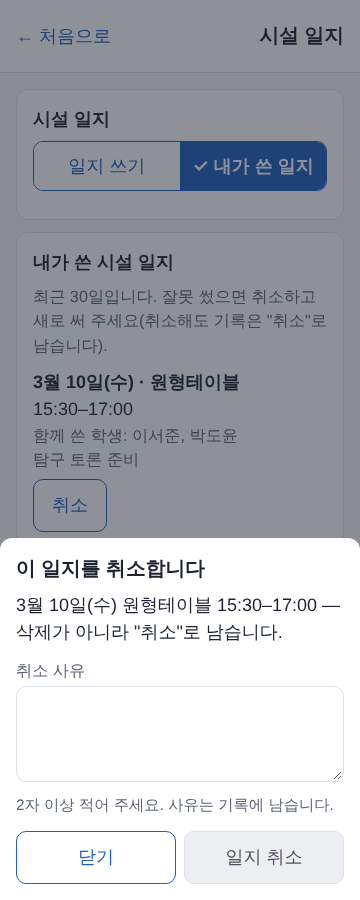
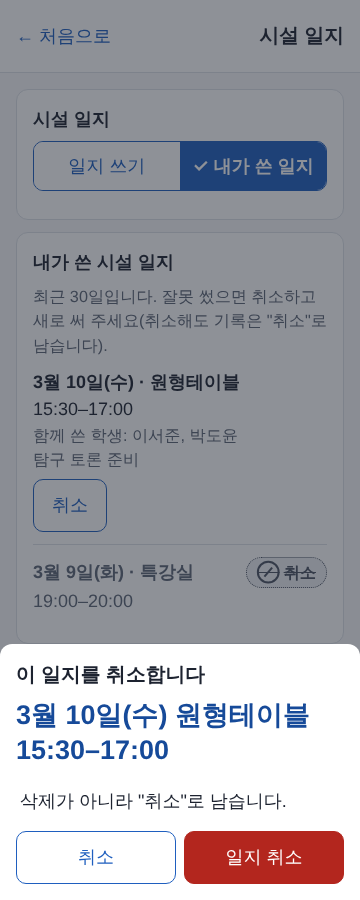
시설 일지 취소는 사유 없이 확인만(총괄 결정), 근무 확인은 getFacilityDay에서 시험
Claude-Session: https://claude.ai/code/session_01By8YabMg6JhtJe4Vt8FkLC

Changed region(s): [[0.0, 0.5911, 1.0, 0.9956], [0.2139, 0.9333, 0.3361, 0.9644]]

diff --git a/src/ui/screen_facility.html b/src/ui/screen_facility.html
@@ -10,7 +10,7 @@
 <script>
   /**
    * 시설 일지 쓰기·내 기록(C35, F10 학생). docs/design/stage7-screens.md 3절. 학생 본인만(서버가 portalWho_로 판정).
-   * 같은 시설·시간이 겹치면 서버가 needsConfirm으로 막고, 학생이 [그래도 저장]을 눌러야 저장된다. 취소는 사유 2자 이상.
+   * 같은 시설·시간이 겹치면 서버가 needsConfirm으로 막고, 학생이 [그래도 저장]을 눌러야 저장된다. 취소는 사유 없이 확인만(총괄 결정).
    */
   function renderScreen(root) {
     var U = UI.util;
@@ -138,18 +138,17 @@
           el('div', { text: l.start + '–' + l.end }),
           l.companions.length ? el('div', { class: 'muted', text: '함께 쓴 학생: ' + l.companions.join(', ') }) : null,
           l.purpose ? el('div', { class: 'muted', text: l.purpose }) : null,
-          cancelled && l.cancelReason ? el('div', { class: 'muted', text: '취소 사유: ' + l.cancelReason }) : null
         ]);
         if (!cancelled) row.appendChild(el('button', { type: 'button', class: 'btn secondary', style: 'margin-top:8px', text: '취소', onclick: function () { askCancel(l); } }));
         card.appendChild(row);
       });
       body.appendChild(card);
     }
-    function askCancel(l) {
-      UI.confirmWithReason({ title: '이 일지를 취소합니다', message: U.formatDateKo(l.date, false) + ' ' + l.facility + ' ' + l.start + '–' + l.end + ' — 삭제가 아니라 "취소"로 남습니다.', reasonLabel: '취소 사유', confirmText: '일지 취소', minLength: 2, danger: true,
-        onconfirm: function (reason) {
-          call('cancelFacilityLog', l.termId, l.id, reason).then(function (r) {
-            if (!r.ok) { UI.toast(r.error || (r.errors && r.errors[0].message) || '취소하지 못했습니다.', { kind: 'warn', ms: 5000 }); if (r.stale) load(); return; }
+    function askCancel(l) {   // 사유 없이 확인만(총괄 결정). 삭제가 아니라 '취소'로 남는다
+      UI.confirmSheet({ title: '이 일지를 취소합니다', lead: U.formatDateKo(l.date, false) + ' ' + l.facility + ' ' + l.start + '–' + l.end, lines: ['삭제가 아니라 "취소"로 남습니다.'], confirmText: '일지 취소', danger: true,
+        onconfirm: function () {
+          call('cancelFacilityLog', l.termId, l.id).then(function (r) {
+            if (!r.ok) { UI.toast(r.error || '취소하지 못했습니다.', { kind: 'warn', ms: 5000 }); if (r.stale) load(); return; }
             UI.toast('일지를 취소했습니다.'); load();
           }).catch(fail);
         } });

diff --git a/tests/core/portal_who.test.js b/tests/core/portal_who.test.js
@@ -74,7 +74,9 @@ test('권한 키: facility.write는 학생 본인만, facility.view는 admin·ha
   denied(OWNER, 'facility.write', ctxOf(mine.id));   // 관리자도 학생 대신 쓰지 않는다
   denied(STUDENT, 'facility.view', {}); denied(PARENT, 'facility.view', {}); denied(HOMEROOM, 'facility.view', {});
   denied(HALL, 'facility.report', {}); denied(STUDENT, 'facility.report', {});
-  env.as(OWNER, fn('facility.view', {})); env.as(HALL, fn('facility.view', {})); env.as(OWNER, fn('facility.report', {}));
+  env.as(OWNER, fn('facility.view', {})); env.as(OWNER, fn('facility.report', {}));
+  // facility.view는 역할 키일 뿐이다 — 학사 교사가 그날 근무일인지는 getFacilityDay가 서버에서 다시 판정한다(근무 아니면 거부 기록, tests/features/facility.test.js)
+  assert.strictEqual(plain(env.call(HALL, 'getFacilityDay', '')).ok, false, '근무 아닌 학사 교사는 목록을 못 본다');
 });
 
 test('facility_logs 탭: 기간마다 생기고 헤더(공통 열 규칙)·설정 facility.names 기본값', () => {
